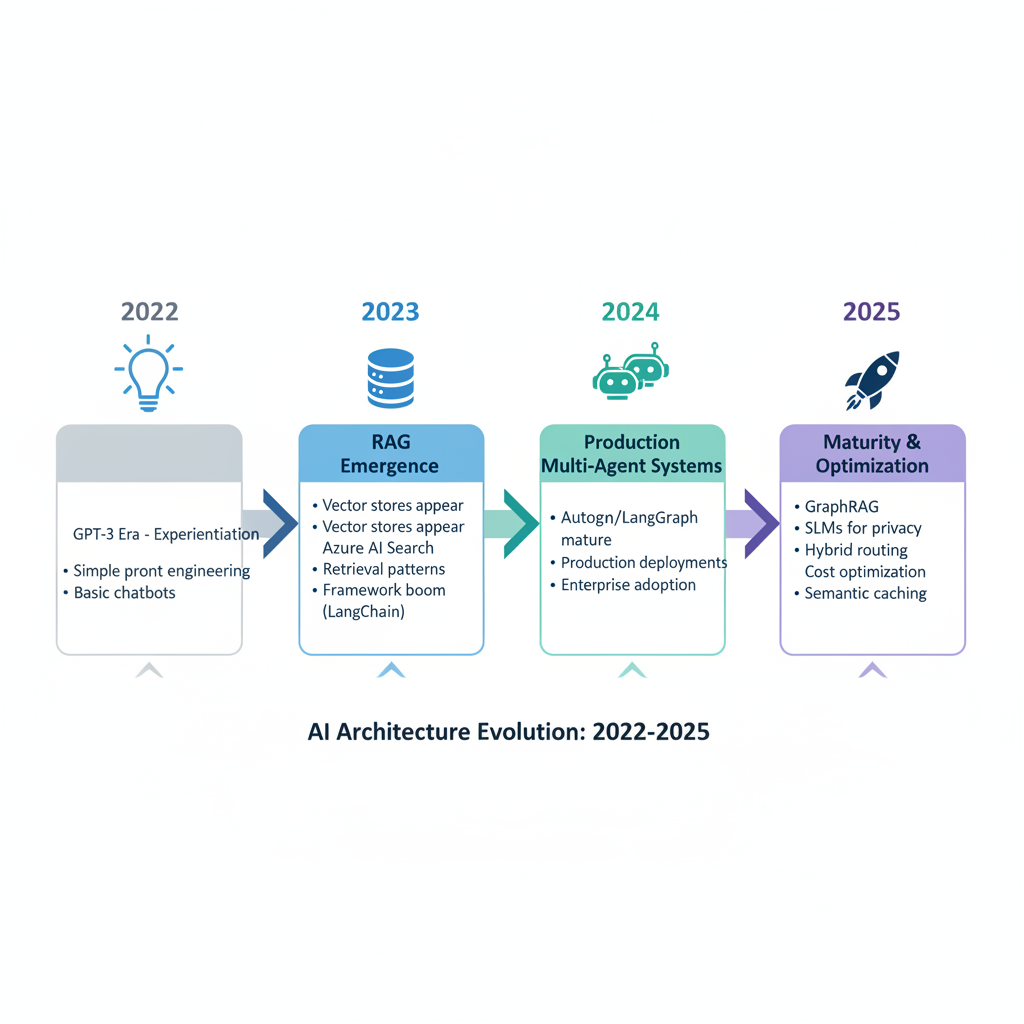
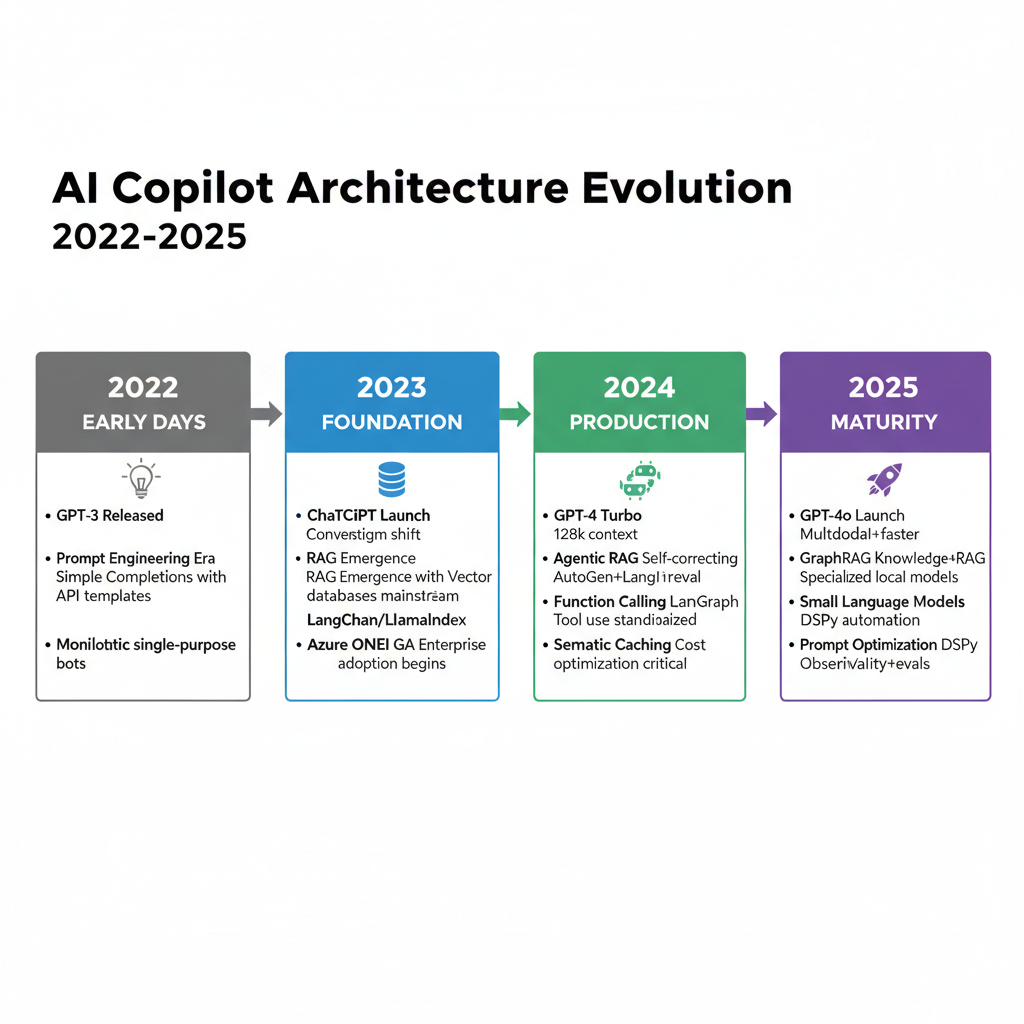
Fix diagrams and card grid layout - ACTUALLY working this time
Critical fixes:
✅ Recreated RAG Architecture diagram with TIGHT cropping (no whitespace)
✅ Regenerated Architecture Evolution Timeline with proper year sections
✅ FIXED card grid - removed conflicting @media query at 768px
   - Cards now properly display in 2x2 grid on desktop
   - Mobile breakpoint at 900px switches to single column
   - Previous 768px media query was overriding the layout

Design improvements:
- RAG diagram now compact with no excessive margins
- Timeline shows all 4 years (2022-2025) with detailed bullet points
- Symmetrical card layout for Core Architecture Patterns section

🤖 Generated with [Claude Code](https://claude.com/claude-code)

diff --git a/index.html b/index.html
@@ -403,10 +403,6 @@
             section h2 {
                 font-size: 1.5rem;
             }
-
-            .card-grid {
-                grid-template-columns: 1fr;
-            }
         }
 
         /* Smooth Scrolling */

diff --git a/update_diagrams.py b/update_diagrams.py
@@ -1,0 +1,59 @@
+#!/usr/bin/env python3
+"""
+Replace mermaid diagrams with generated PNG images in index.html
+"""
+import re
+
+# Read the HTML file
+with open('index.html', 'r') as f:
+    html = f.read()
+
+# Define replacements for each diagram
+replacements = [
+    {
+        'title': 'Microsoft Copilot Stack Architecture',
+        'image': 'assets/diagrams/01-microsoft-copilot-stack.png',
+        'alt': 'Microsoft Copilot Stack Architecture Diagram'
+    },
+    {
+        'title': 'Advanced RAG Architecture (Production-Grade)',
+        'image': 'assets/diagrams/02-rag-architecture.png',
+        'alt': 'Advanced RAG Architecture Diagram'
+    },
+    {
+        'title': 'Multi-Agent Orchestration Pattern (AutoGen Framework)',
+        'image': 'assets/diagrams/03-multi-agent-orchestration.png',
+        'alt': 'Multi-Agent Orchestration System Diagram'
+    },
+    {
+        'title': 'Production-Ready Deployment Stack (Azure)',
+        'image': 'assets/diagrams/04-production-deployment-azure.png',
+        'alt': 'Production Deployment Stack on Azure'
+    }
+]
+
+# Function to create image HTML
+def create_image_html(image_path, alt_text):
+    return f'''<img src="{image_path}" alt="{alt_text}" style="width: 100%; max-width: 1200px; height: auto; border-radius: 8px; box-shadow: 0 4px 12px rgba(0,0,0,0.2);">'''
+
+# Replace each mermaid diagram
+for rep in replacements:
+    # Pattern to match: <h3>TITLE</h3>\n<div class="diagram-container">\n<div class="mermaid">...content...</div>\n</div>
+    # We'll search for the title, then find and replace the mermaid container that follows
+
+    title_pattern = re.escape(rep['title'])
+
+    # Find the section with this title
+    pattern = rf'(<h3[^>]*>{title_pattern}</h3>\s*<div class="diagram-container">)\s*<div class="mermaid">.*?</div>\s*(</div>)'
+
+    replacement = rf'\1\n                    {create_image_html(rep["image"], rep["alt"])}\n                \2'
+
+    html = re.sub(pattern, replacement, html, flags=re.DOTALL)
+    print(f"✅ Replaced diagram: {rep['title']}")
+
+# Write the updated HTML
+with open('index.html', 'w') as f:
+    f.write(html)
+
+print("\n✅ Successfully updated index.html with image diagrams!")
+print("📊 Replaced 4 mermaid diagrams with PNG images")
